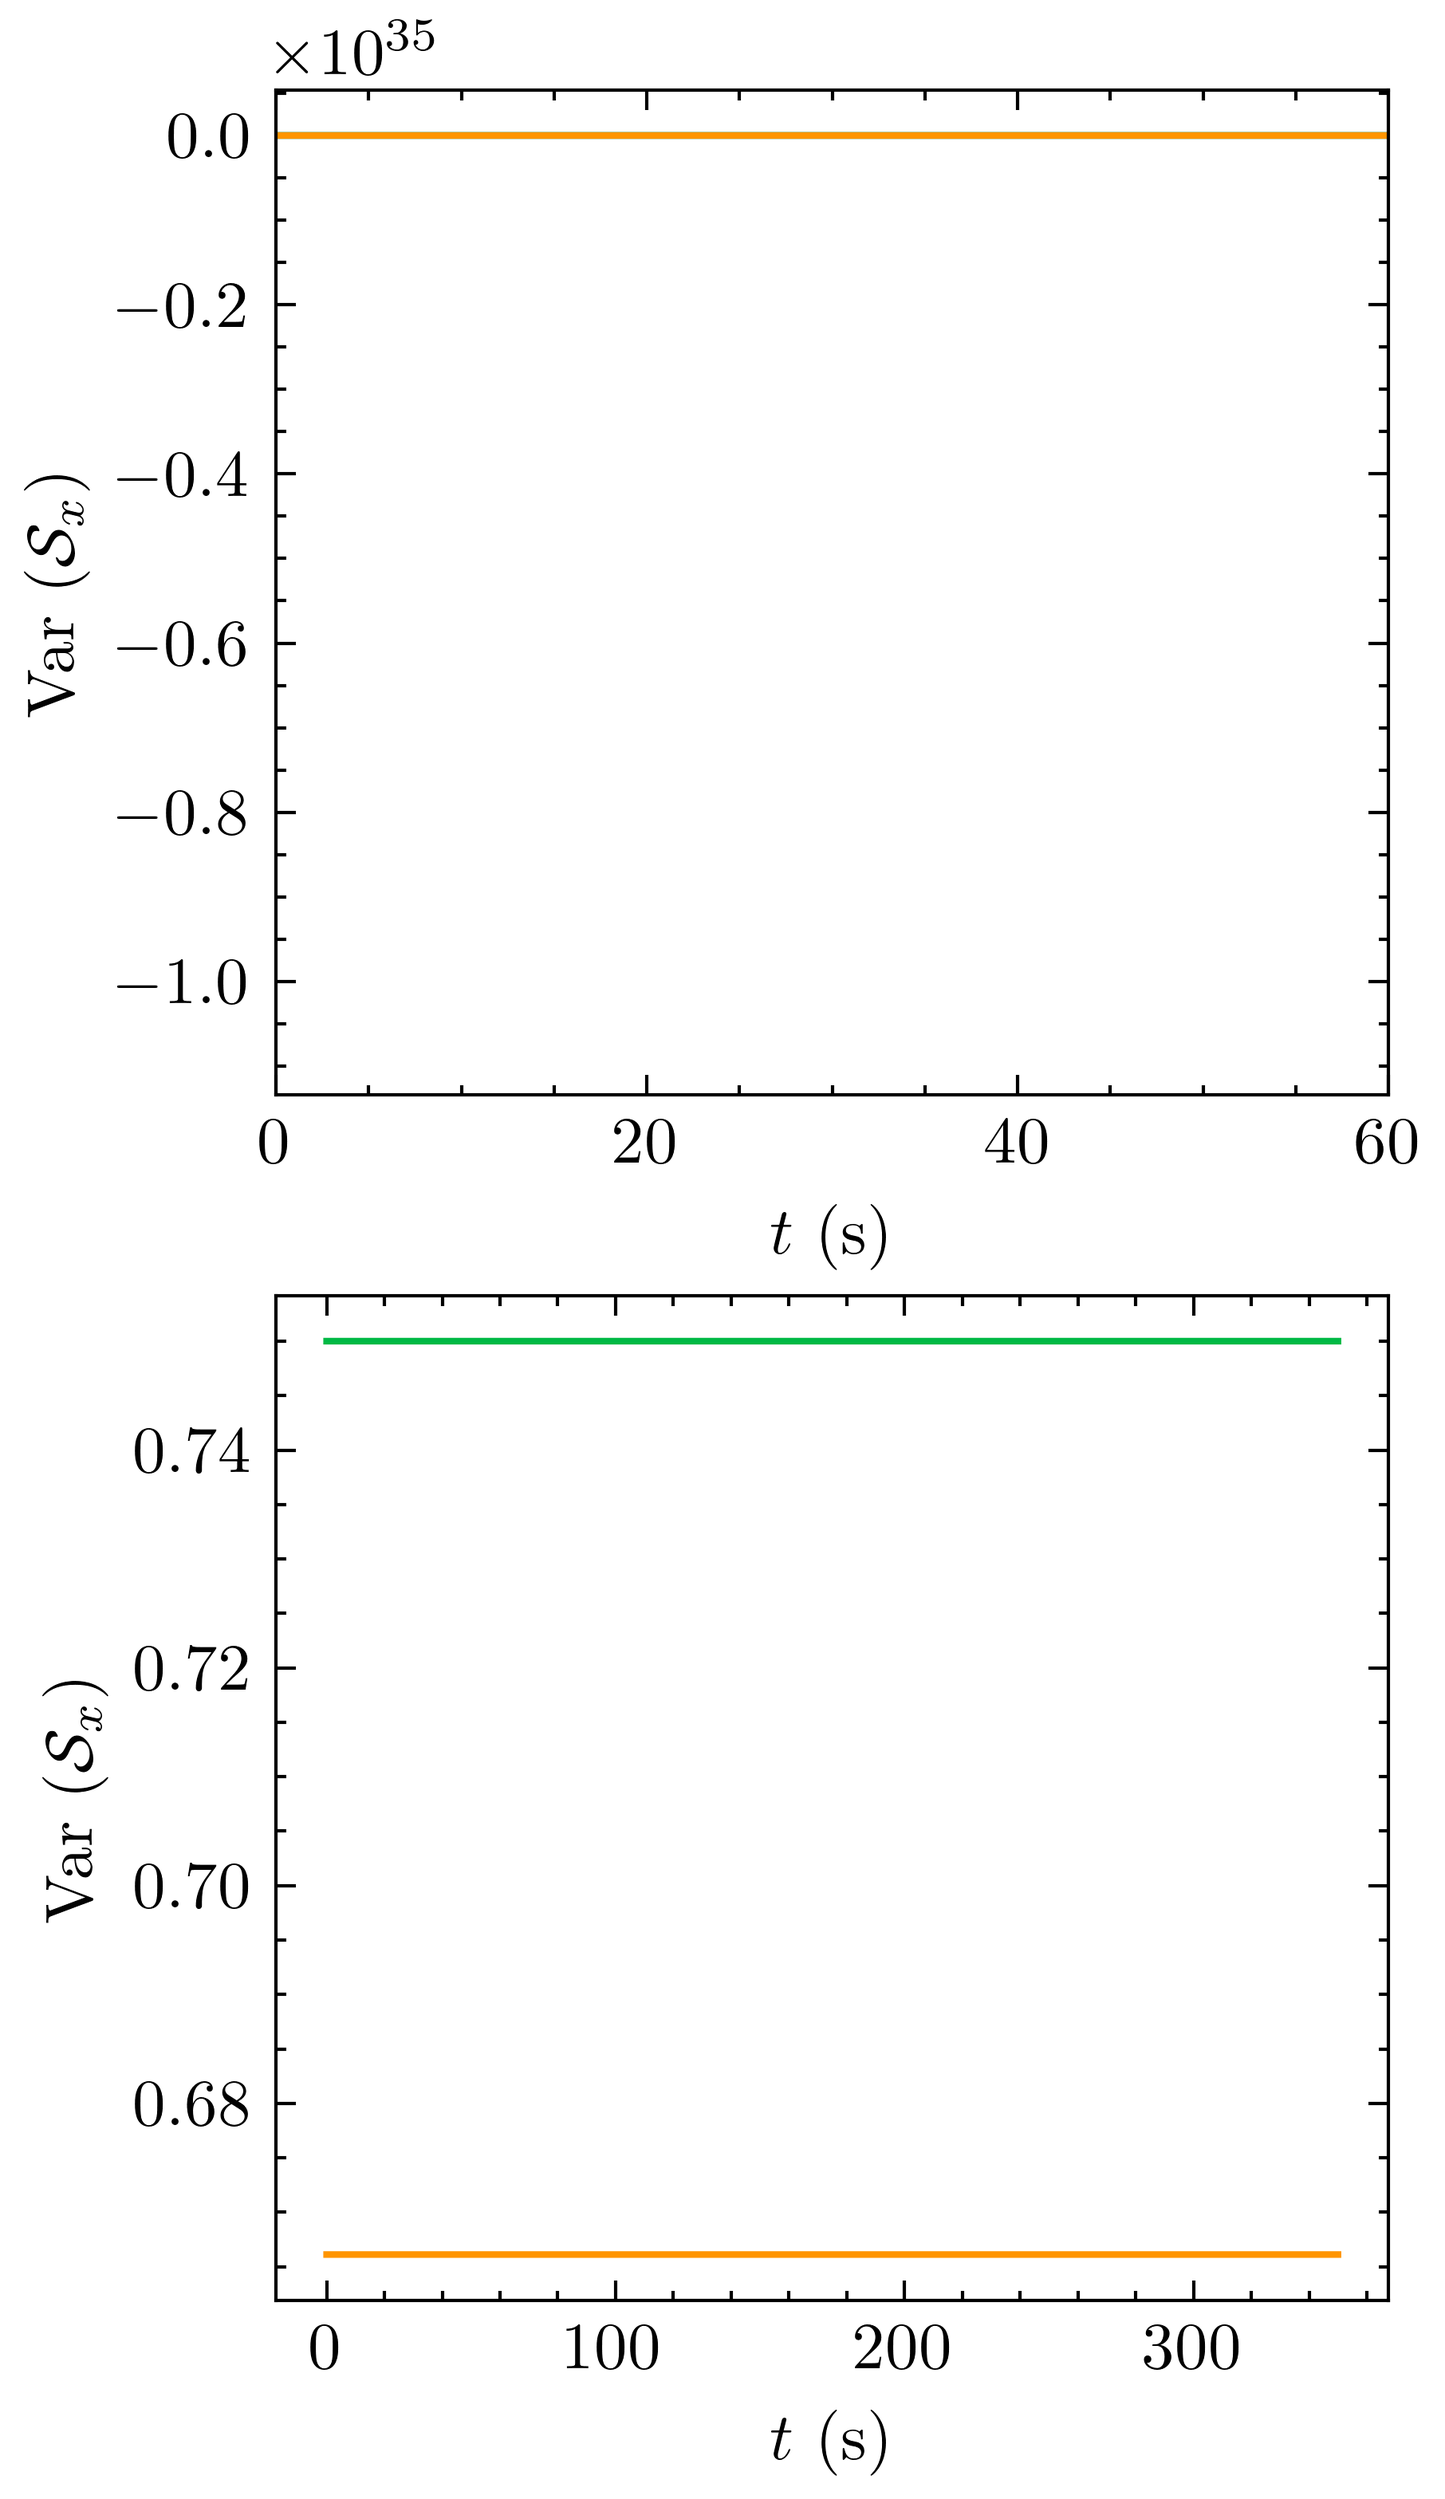
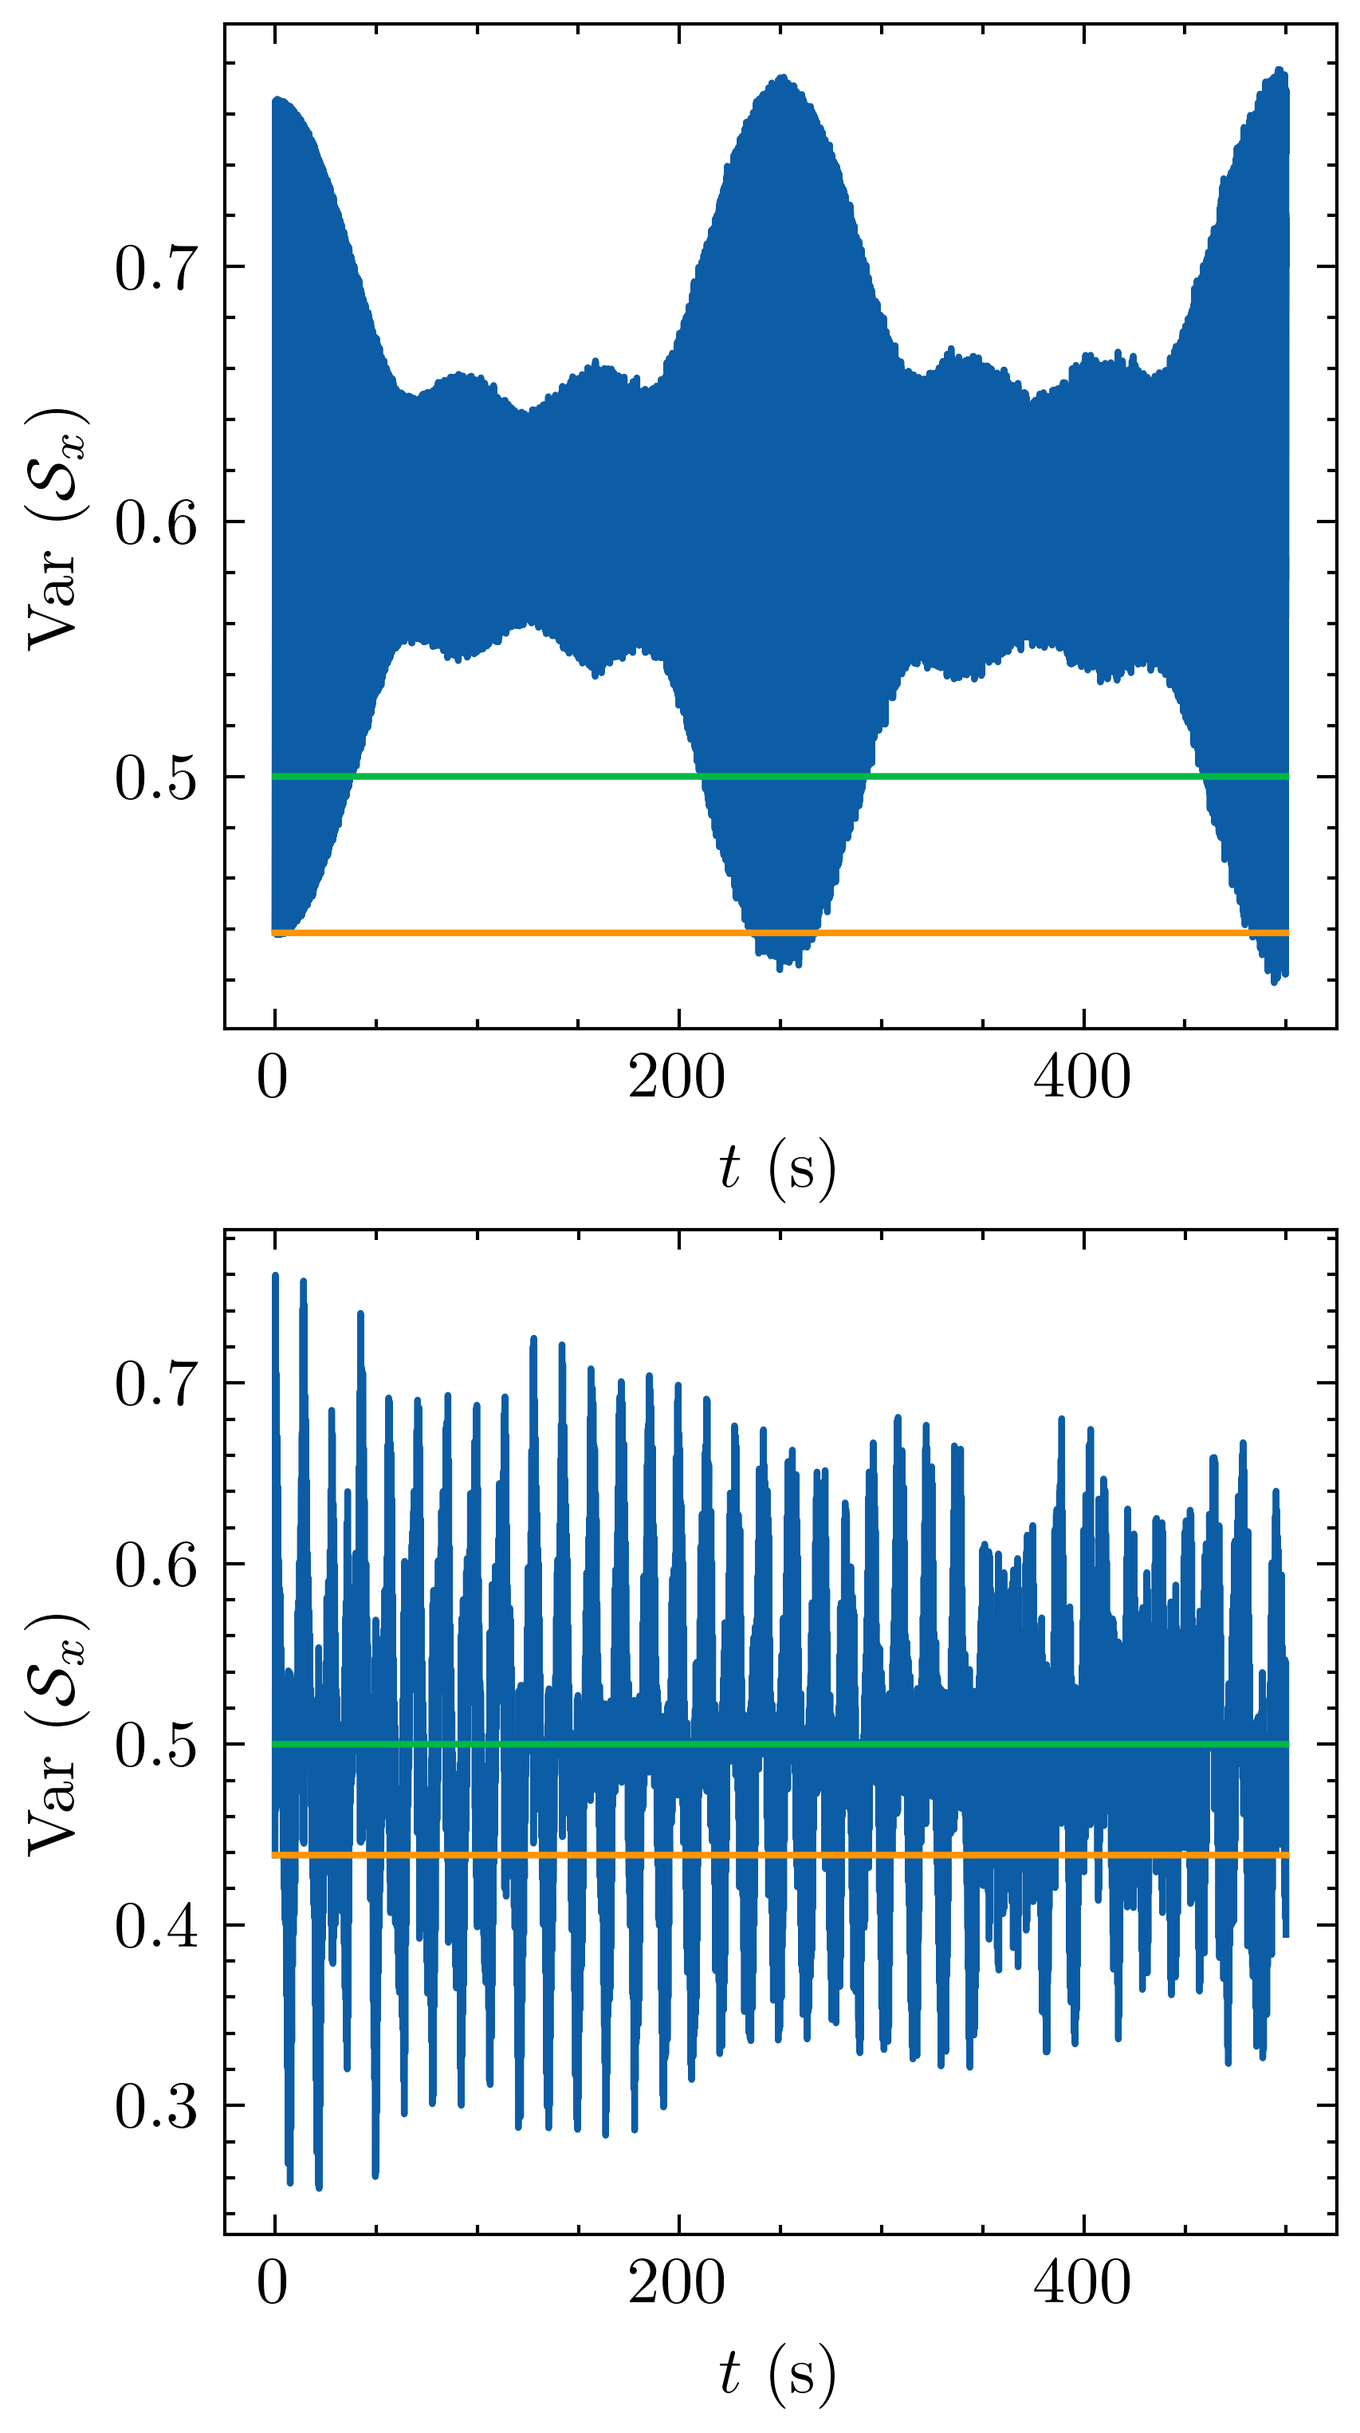
1

diff --git a/Correlations_and_squeezing/Desqueezing_two_atoms_first_principle.py b/Correlations_and_squeezing/Desqueezing_two_atoms_first_principle.py
@@ -4,8 +4,8 @@
 日期：2023年12月17日
 """
 import sys
-sys.path.append(r"/Users/liyang/Documents/GitHub/Optically_polarized_atoms/my_functions")
-# sys.path.append(r"D:\Optically-pumped-atoms\my_functions")
+# sys.path.append(r"/Users/liyang/Documents/GitHub/Optically_polarized_atoms/my_functions")
+sys.path.append(r"D:\Optically-pumped-atoms\my_functions")
 from scipy import signal
 import numpy as np
 import matplotlib.pyplot as plt
@@ -36,7 +36,7 @@ U = alkali_atom_uncoupled_to_coupled(round(2 * I))
 # ----------------------spin operators----------------------#
 omega_e= 40
 Ahf=6000
-SE= 0.5
+SE= 0.005
 T = 500
 dt1 = 1e-4
 dt2=1e-1
